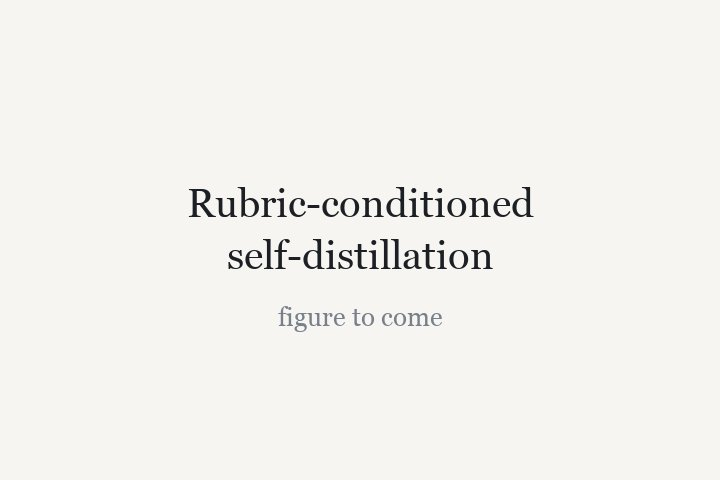
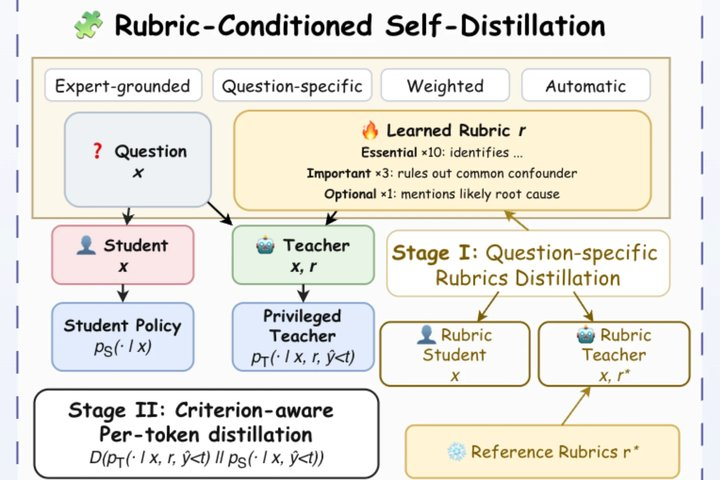
Use the paper's own figure for rubric self-distillation and link to arXiv

diff --git a/index.html b/index.html
@@ -123,7 +123,7 @@
           <p class="projects-label">Recent projects</p>
           <ul class="projects">
             <li>
-              <a href="https://openreview.net/forum?id=QIFuWgnn6m"
+              <a href="https://arxiv.org/abs/2606.19327"
                 title="Rethinking Reward Supervision: Rubric-Conditioned Self-Distillation">
                 <img src="./img/research/rubric.jpg" alt="" width="720" height="480" loading="lazy">
                 <span>Rubric-conditioned self-distillation</span>
